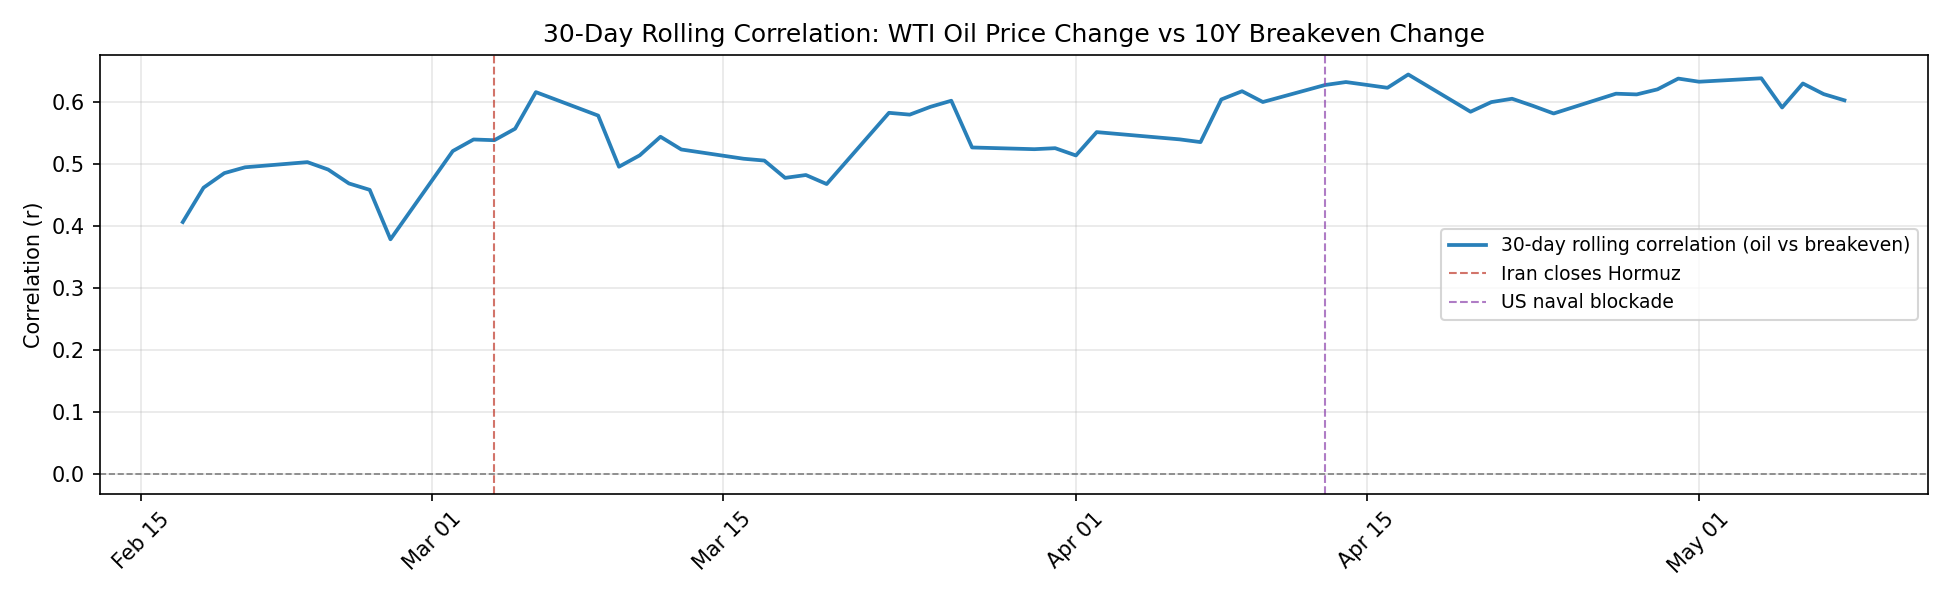
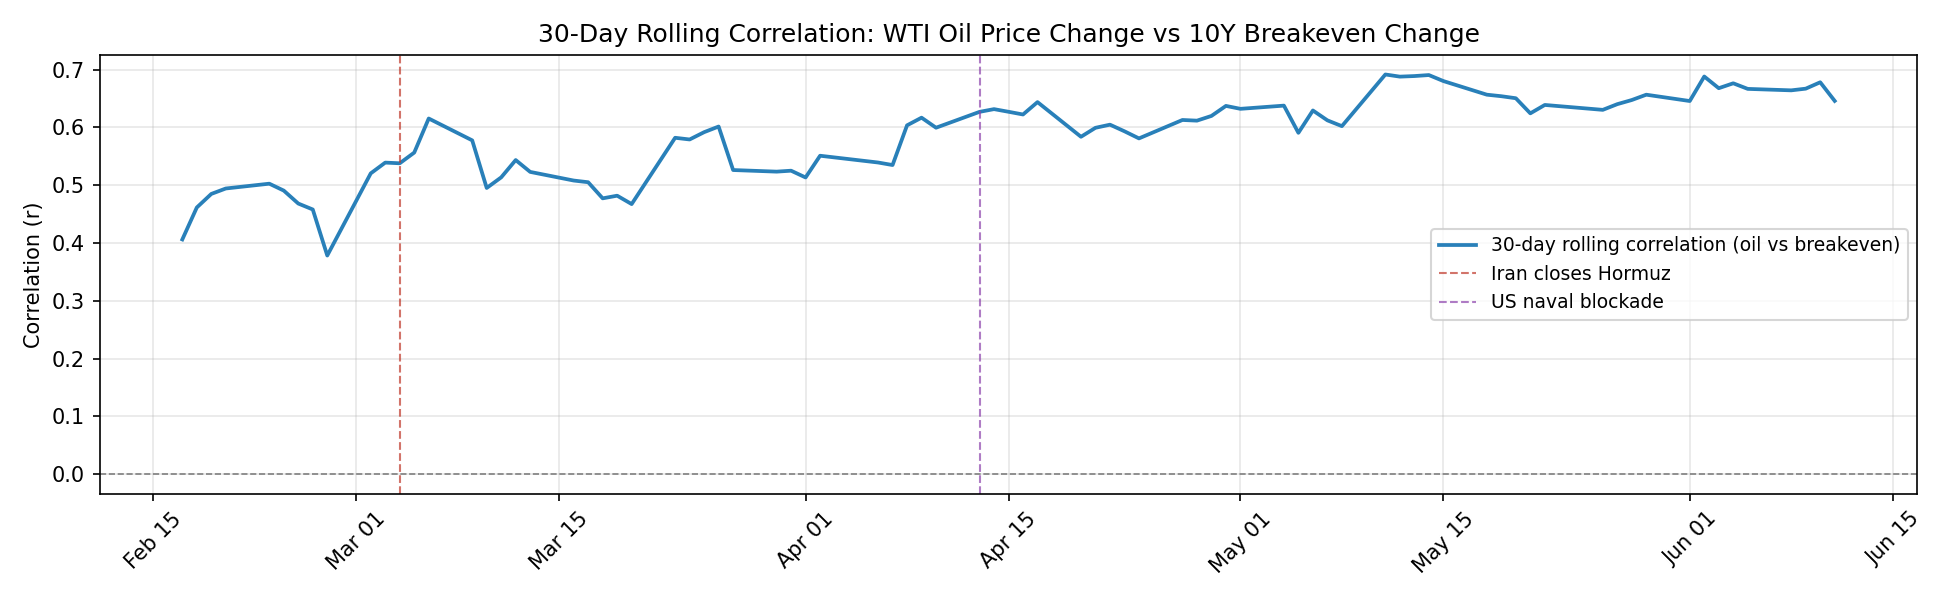
Add BWET lead-lag analysis, VAR forecast, and IRF

diff --git a/forecast.py b/forecast.py
@@ -1,0 +1,94 @@
+import pandas as pd
+import sqlite3
+import matplotlib.pyplot as plt
+import matplotlib.dates as mdates
+import warnings
+warnings.filterwarnings("ignore")
+import numpy as np
+from statsmodels.tsa.api import VAR
+
+# Load data
+conn = sqlite3.connect("hormuz_macro.db")
+macro = pd.read_sql("SELECT * FROM macro_daily", conn, index_col="index", parse_dates=["index"])
+bdti  = pd.read_sql("SELECT * FROM bdti", conn, index_col="date", parse_dates=["date"])
+conn.close()
+
+# Merge
+df = macro.join(bdti, how="inner").dropna()
+
+# Raw daily changes
+df["bwet_chg"]      = df["bdti"].diff()
+df["wti_chg"]       = df["wti_price"].diff()
+df["breakeven_chg"] = df["breakeven_10y"].diff()
+
+# Log returns
+df["bwet_log"]      = np.log(df["bdti"]).diff()
+df["wti_log"]       = np.log(df["wti_price"]).diff()
+df["breakeven_log"] = np.log(df["breakeven_10y"]).diff()
+
+data_raw = pd.DataFrame({
+    "bwet_chg":      df["bwet_chg"],
+    "wti_chg":       df["wti_chg"],
+    "breakeven_chg": df["breakeven_chg"],
+}).dropna()
+
+data_log = pd.DataFrame({
+    "bwet_log": df["bwet_log"],
+    "wti_log":  df["wti_log"],
+    "breakeven_log": df["breakeven_log"],
+}).dropna()
+
+def run_var_forecast(data, label, col_idx=2, is_log=False):
+    model = VAR(data)
+    results = model.fit(2)
+    lag_order = 2
+    forecast_input = data.values[-lag_order:]
+    forecast = results.forecast_interval(y=forecast_input, steps=10, alpha=0.2)
+    fc_mean, fc_lower, fc_upper = forecast
+
+    last_date = df.index[-1]
+    forecast_dates = pd.bdate_range(start=last_date, periods=11)[1:]
+    fc_df = pd.DataFrame({
+        "fc":    fc_mean[:, col_idx],
+        "lower": fc_lower[:, col_idx],
+        "upper": fc_upper[:, col_idx],
+    }, index=forecast_dates)
+
+    last_val = df["breakeven_10y"].iloc[-1]
+    if is_log:
+        # Convert log return forecasts back to levels
+        fc_df["breakeven_forecast"] = last_val * np.exp(fc_df["fc"].cumsum())
+        fc_df["lower_level"]        = last_val * np.exp(fc_df["lower"].cumsum())
+        fc_df["upper_level"]        = last_val * np.exp(fc_df["upper"].cumsum())
+    else:
+        fc_df["breakeven_forecast"] = last_val + fc_df["fc"].cumsum()
+        fc_df["lower_level"]        = last_val + fc_df["lower"].cumsum()
+        fc_df["upper_level"]        = last_val + fc_df["upper"].cumsum()
+
+    print(f"\n=== 10-Day Breakeven Forecast ({label}) ===")
+    print(fc_df[["breakeven_forecast", "lower_level", "upper_level"]].round(4))
+
+    # Plot
+    fig, ax = plt.subplots(figsize=(13, 5))
+    hist = df["breakeven_10y"].iloc[-60:]
+    ax.plot(hist.index, hist, color="#e67e22", linewidth=1.8, label="Historical 10Y Breakeven")
+    ax.plot(fc_df.index, fc_df["breakeven_forecast"],
+            color="#2980b9", linewidth=2, linestyle="--", label=f"VAR Forecast ({label})")
+    ax.fill_between(fc_df.index, fc_df["lower_level"], fc_df["upper_level"],
+                    alpha=0.2, color="#2980b9", label="80% Confidence Interval")
+    ax.axvline(last_date, color="gray", linestyle=":", linewidth=1.2, label="Forecast start")
+    ax.set_ylabel("10Y Breakeven Inflation (%)", fontsize=10)
+    ax.set_title(f"VAR Forecast: 10Y Breakeven — Next 10 Trading Days ({label})\n"
+                 "Inputs: BWET (tanker ETF), WTI crude, 10Y breakeven", fontsize=12)
+    ax.legend(fontsize=9)
+    ax.grid(alpha=0.3)
+    ax.xaxis.set_major_formatter(mdates.DateFormatter("%b %d"))
+    plt.xticks(rotation=45)
+    plt.tight_layout()
+    fname = f"forecast_{label.lower().replace(' ', '_')}.png"
+    plt.savefig(fname, dpi=150, bbox_inches="tight")
+    print(f"Chart saved as {fname}")
+    plt.close()
+
+run_var_forecast(data_raw, "raw daily change", col_idx=2, is_log=False)
+run_var_forecast(data_log, "log return",       col_idx=2, is_log=True)

diff --git a/irf_analysis.py b/irf_analysis.py
@@ -1,0 +1,72 @@
+import pandas as pd
+import numpy as np
+import sqlite3
+import matplotlib.pyplot as plt
+import matplotlib.dates as mdates
+import warnings
+warnings.filterwarnings("ignore")
+from statsmodels.tsa.api import VAR
+
+# Load data
+conn = sqlite3.connect("hormuz_macro.db")
+macro = pd.read_sql("SELECT * FROM macro_daily", conn, index_col="index", parse_dates=["index"])
+bdti  = pd.read_sql("SELECT * FROM bdti", conn, index_col="date", parse_dates=["date"])
+conn.close()
+
+# Merge and compute log returns
+df = macro.join(bdti, how="inner").dropna()
+data = pd.DataFrame({
+    "bwet_log":      np.log(df["bdti"]).diff(),
+    "wti_log":       np.log(df["wti_price"]).diff(),
+    "breakeven_log": np.log(df["breakeven_10y"]).diff(),
+}).dropna()
+
+# ── Fit VAR ───────────────────────────────────────────────────
+model = VAR(data)
+results = model.fit(2)
+
+# ── Impulse Response Function ─────────────────────────────────
+irf = results.irf(periods=10)
+
+# Extract BWET shock → breakeven response
+# irf.irfs shape: (periods+1, n_vars, n_vars)
+# [period, response_var, impulse_var]
+# bwet=0, wti=1, breakeven=2
+bwet_to_breakeven = irf.irfs[:, 2, 0]   # breakeven response to BWET shock
+lower = irf.irfs[:, 2, 0] - 1.28 * irf.stderr()[:, 2, 0]
+upper = irf.irfs[:, 2, 0] + 1.28 * irf.stderr()[:, 2, 0]
+
+periods = np.arange(len(bwet_to_breakeven))
+
+# Convert log response to approximate bp move
+# breakeven is ~2.3%, so 1% log move ≈ 2.3bp
+last_breakeven = df["breakeven_10y"].iloc[-1]
+scale = last_breakeven * 100  # convert to bp
+bwet_bp = bwet_to_breakeven * scale
+lower_bp = lower * scale
+upper_bp = upper * scale
+
+print("=== IRF: BWET 1-SD Shock → 10Y Breakeven Response (bp) ===")
+for i, (b, lo, hi) in enumerate(zip(bwet_bp, lower_bp, upper_bp)):
+    print(f"  Day {i:2d}: {b:+.2f} bp  [{lo:+.2f}, {hi:+.2f}]")
+
+# ── Plot ──────────────────────────────────────────────────────
+fig, ax = plt.subplots(figsize=(11, 5))
+
+ax.plot(periods, bwet_bp, color="#2980b9", linewidth=2.2,
+        marker="o", markersize=5, label="Breakeven response (bp)")
+ax.fill_between(periods, lower_bp, upper_bp,
+                alpha=0.2, color="#2980b9", label="80% Confidence Band")
+ax.axhline(0, color="gray", linewidth=0.8, linestyle="--")
+
+ax.set_xlabel("Days after BWET shock", fontsize=10)
+ax.set_ylabel("10Y Breakeven response (basis points)", fontsize=10)
+ax.set_title("Impulse Response: Effect of 1-SD BWET Shock on 10Y Breakeven Inflation\n"
+             "How does a tanker market stress event transmit to inflation expectations?",
+             fontsize=12)
+ax.set_xticks(periods)
+ax.legend(fontsize=9)
+ax.grid(alpha=0.3)
+plt.tight_layout()
+plt.savefig("irf.png", dpi=150, bbox_inches="tight")
+print("\nIRF chart saved as irf.png")

diff --git a/lead_lag.py b/lead_lag.py
@@ -1,0 +1,57 @@
+import pandas as pd
+import sqlite3
+import matplotlib.pyplot as plt
+import matplotlib.dates as mdates
+
+# Load data
+conn = sqlite3.connect("hormuz_macro.db")
+macro = pd.read_sql("SELECT * FROM macro_daily", conn, index_col="index", parse_dates=["index"])
+bdti  = pd.read_sql("SELECT * FROM bdti", conn, index_col="date", parse_dates=["date"])
+conn.close()
+
+# Merge
+df = macro.join(bdti, how="inner").dropna()
+df["bdti_chg"]      = df["bdti"].diff(5)
+df["breakeven_chg"] = df["breakeven_10y"].diff(5)
+
+# ── Lead-lag analysis ──────────────────────────────────────────
+print("Lead-lag: BWET 5-day change vs future breakeven 5-day change\n")
+results = []
+for lag in [0, 1, 2, 3, 5, 10]:
+    r = df["bdti_chg"].corr(df["breakeven_chg"].shift(-lag))
+    r2 = r ** 2
+    results.append((lag, round(r, 3)))
+    print(f"  BWET today vs breakeven +{lag}d: r = {r:.3f}  |  R² = {r2:.3f}  ({r2*100:.1f}% variance explained)")
+
+best_lag = max(results, key=lambda x: abs(x[1]))
+print(f"\nStrongest signal: lag = {best_lag[0]} days (r = {best_lag[1]})")
+
+# ── Plot: BWET vs WTI vs Breakeven ────────────────────────────
+fig, (ax1, ax2, ax3) = plt.subplots(3, 1, figsize=(13, 9), sharex=True)
+fig.suptitle("Shipping Stress → Oil → Inflation: BWET as Leading Indicator",
+             fontsize=13, fontweight="bold", y=0.98)
+
+ax1.plot(df.index, df["bdti"], color="#8e44ad", linewidth=1.8, label="BWET (tanker ETF)")
+ax1.set_ylabel("BWET ($/share)", fontsize=10)
+ax1.legend(loc="upper left", fontsize=9)
+ax1.grid(alpha=0.3)
+
+ax2.plot(df.index, df["wti_price"], color="#c0392b", linewidth=1.8, label="WTI Crude")
+ax2.set_ylabel("WTI ($/bbl)", fontsize=10)
+ax2.legend(loc="upper left", fontsize=9)
+ax2.grid(alpha=0.3)
+
+ax3.plot(df.index, df["breakeven_10y"], color="#e67e22", linewidth=1.8, label="10Y Breakeven")
+ax3.set_ylabel("Breakeven (%)", fontsize=10)
+ax3.legend(loc="upper left", fontsize=9)
+ax3.grid(alpha=0.3)
+
+for ax in [ax1, ax2, ax3]:
+    ax.axvline(pd.Timestamp("2026-03-04"), color="#aaa", linestyle="--", linewidth=0.8, alpha=0.7)
+    ax.axvline(pd.Timestamp("2026-04-13"), color="#aaa", linestyle="--", linewidth=0.8, alpha=0.7)
+
+ax3.xaxis.set_major_formatter(mdates.DateFormatter("%b %d"))
+plt.xticks(rotation=45)
+plt.tight_layout()
+plt.savefig("lead_lag.png", dpi=150, bbox_inches="tight")
+print("\nChart saved as lead_lag.png")

diff --git a/fetch_bdti.py b/fetch_bdti.py
@@ -1,0 +1,26 @@
+from dotenv import load_dotenv
+import os
+import pandas as pd
+import sqlite3
+import yfinance as yf
+
+def fetch_bdti(start="2026-01-01"):
+    """Fetch shipping proxy via Breakwave Tanker & Shipping ETF (BWET)."""
+    df = yf.download("BWET", start=start, auto_adjust=True)
+    df.columns = df.columns.get_level_values(0)
+    df = df[["Close"]].rename(columns={"Close": "bdti"})
+    df.index.name = "date"
+    df = df.dropna()
+    return df
+
+def save_bdti_to_db(df, db_path="hormuz_macro.db"):
+    """Save BDTI data to SQLite database."""
+    conn = sqlite3.connect(db_path)
+    df.to_sql("bdti", conn, if_exists="replace", index=True)
+    conn.close()
+    print(f"Saved {len(df)} rows of BDTI data.")
+
+if __name__ == "__main__":
+    df = fetch_bdti()
+    print(df.tail(10))
+    save_bdti_to_db(df)

diff --git a/main.py b/main.py
@@ -17,10 +17,14 @@ if __name__ == "__main__":
     print(f"Hormuz Risk Monitor — {start.strftime('%Y-%m-%d %H:%M')}")
 
     run("fetch_data.py")
+    run("fetch_bdti.py")
     run("scrape.py")
     run("analyze.py")
     run("visualize.py")
+    run("lead_lag.py")
+    run("forecast.py")
+    run("irf_analysis.py")
 
     end = datetime.now()
     print(f"\nAll done in {(end - start).seconds} seconds.")
-    print(f"Charts: hormuz_monitor.png, rolling_correlation.png")
+    print(f"Charts: hormuz_monitor.png, rolling_correlation.png, lead_lag.png, forecast.png, irf.png")

diff --git a/visualize.py b/visualize.py
@@ -17,6 +17,10 @@ key_events = {
     "2026-04-13": "US naval blockade",
     "2026-04-17": "Iran reopens briefly",
     "2026-05-06": "Project Freedom pause",
+    "2026-06-01": "Iran quits talks",
+    "2026-06-09": "US resumes strikes",
+    "2026-06-11": "Iran closes Hormuz again",
+    "2026-06-12": "Peace deal text agreed",
 }
 
 fig, (ax1, ax2, ax3) = plt.subplots(3, 1, figsize=(13, 10), sharex=True)

diff --git a/fetch_data.py b/fetch_data.py
@@ -1,4 +1,5 @@
 from dotenv import load_dotenv
+from datetime import date
 import os
 load_dotenv()
 FRED_API_KEY = os.getenv("FRED_API_KEY")
@@ -10,7 +11,7 @@ from fredapi import Fred
 fred = Fred(api_key=FRED_API_KEY)
 
 START = "2026-01-01"
-END   = "2026-05-11"
+END = date.today().isoformat()
 
 def fetch_fred_series():
     """Fetch three FRED series: 10Y nominal yield, 10Y TIPS real yield, 10Y breakeven inflation."""